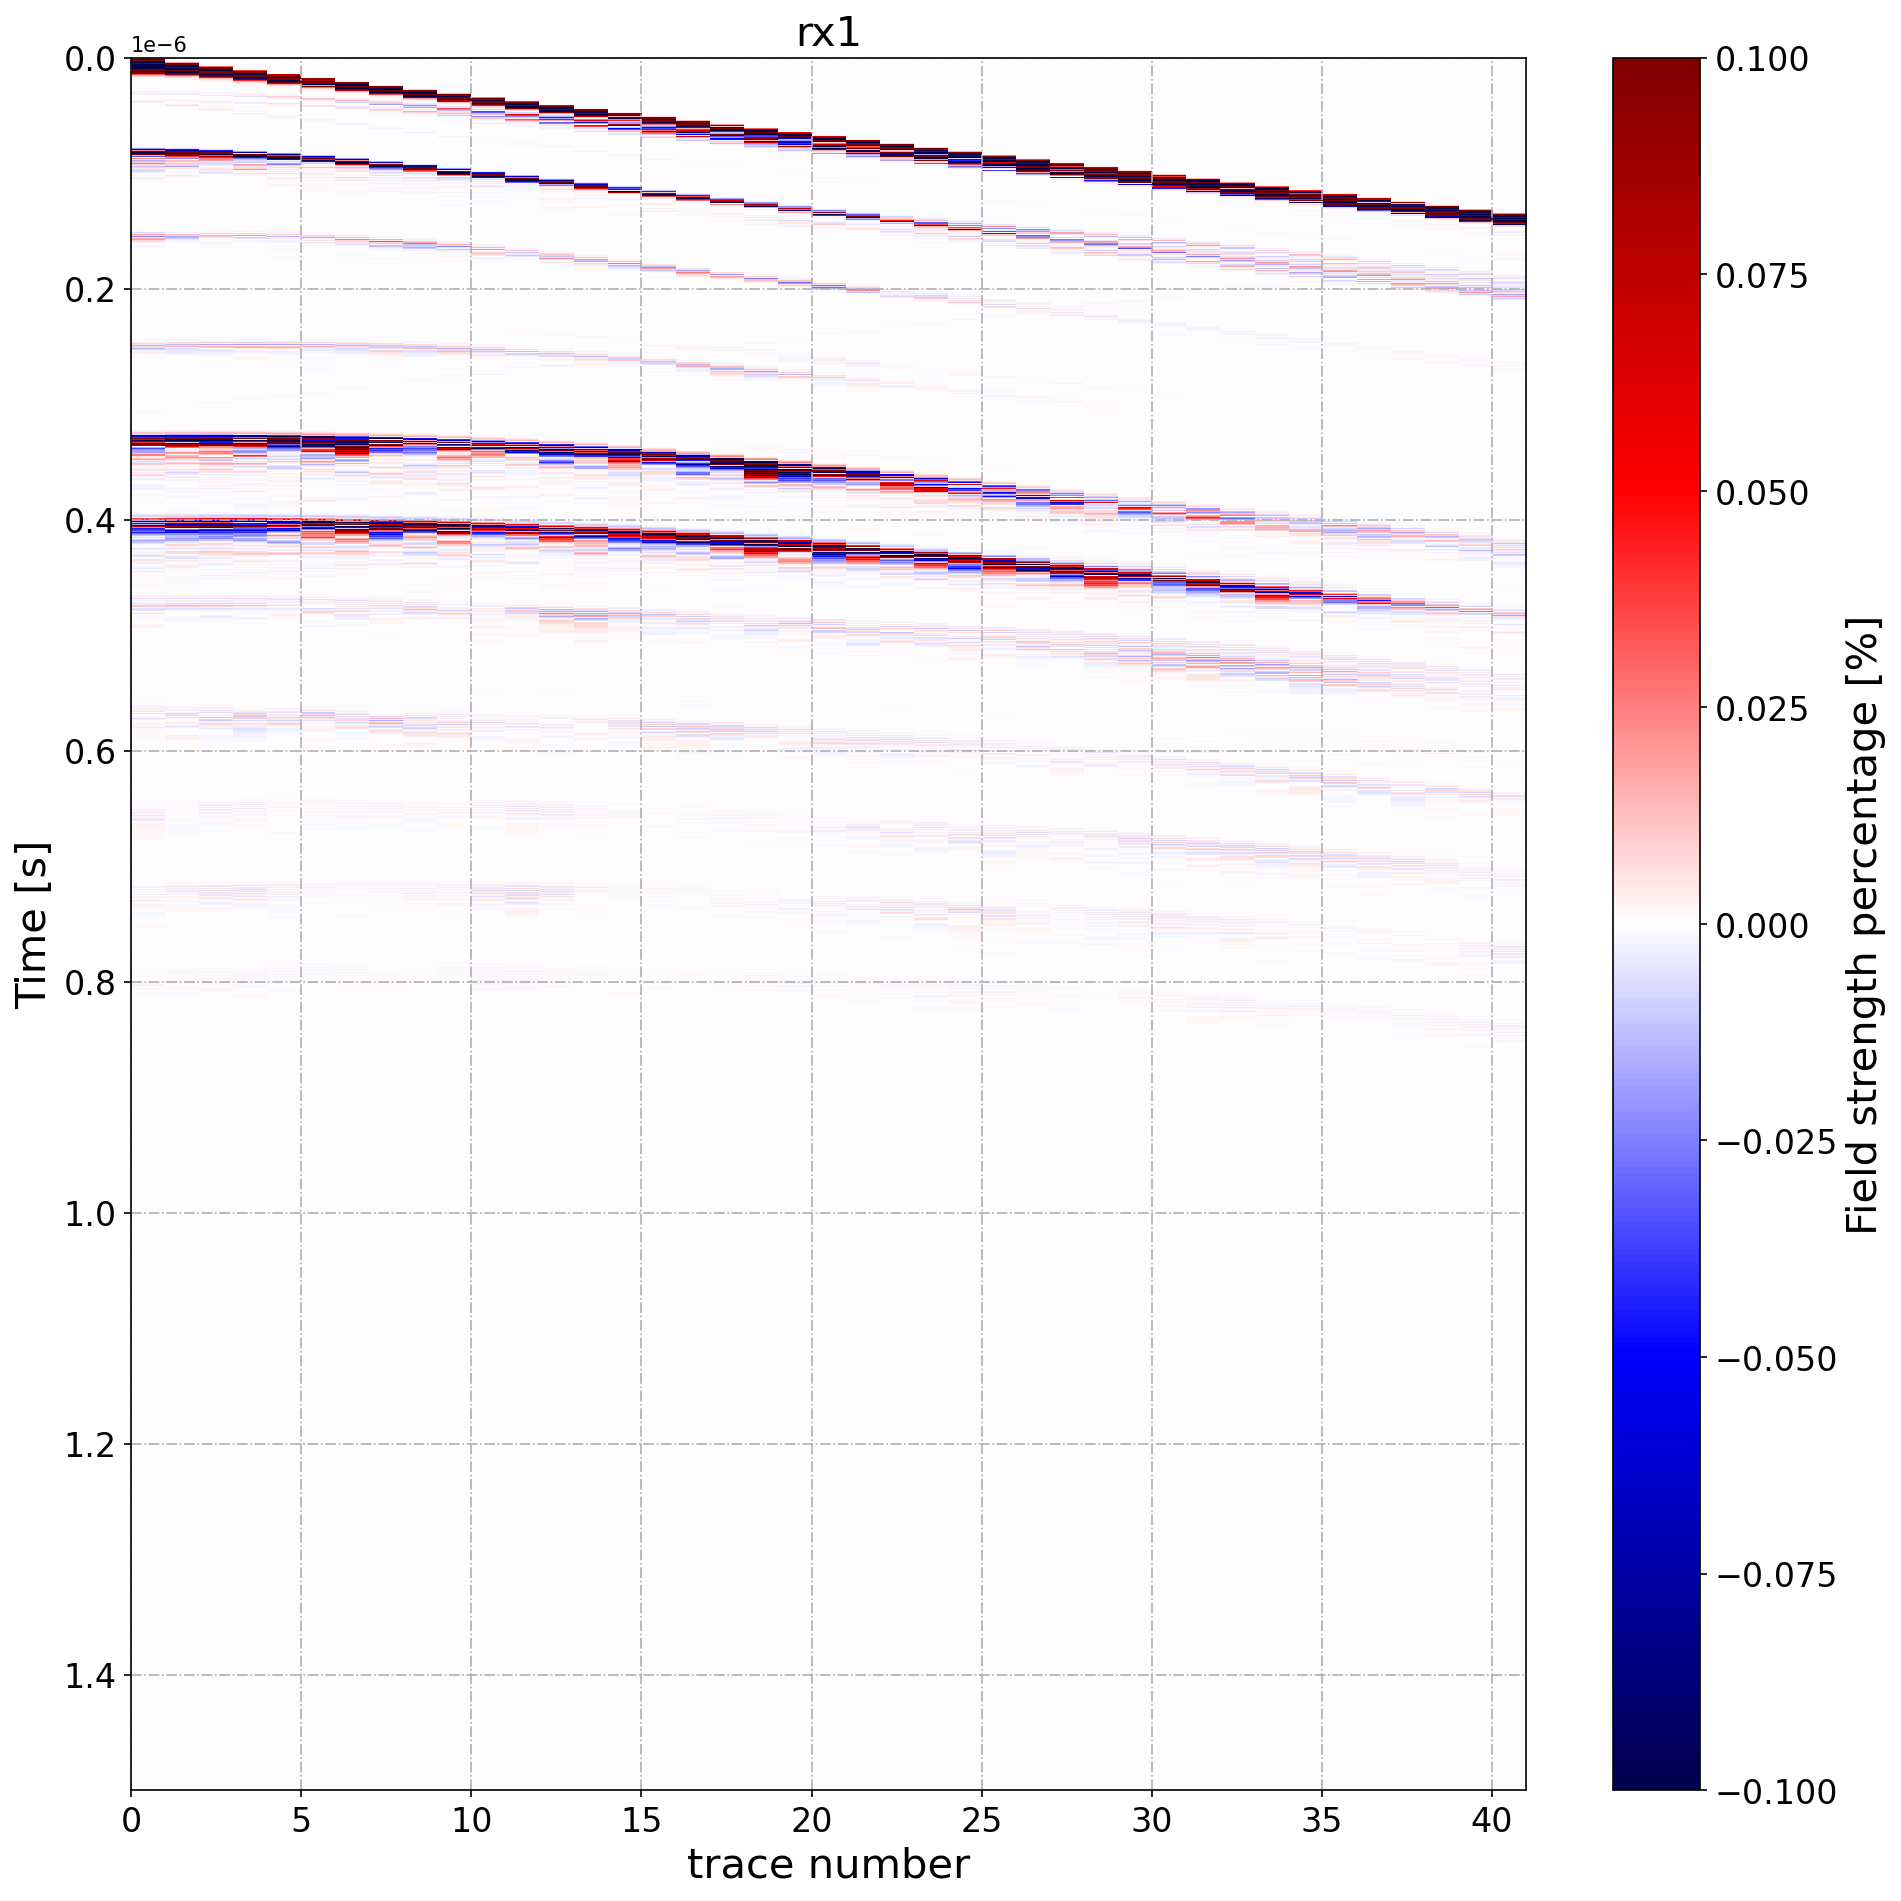
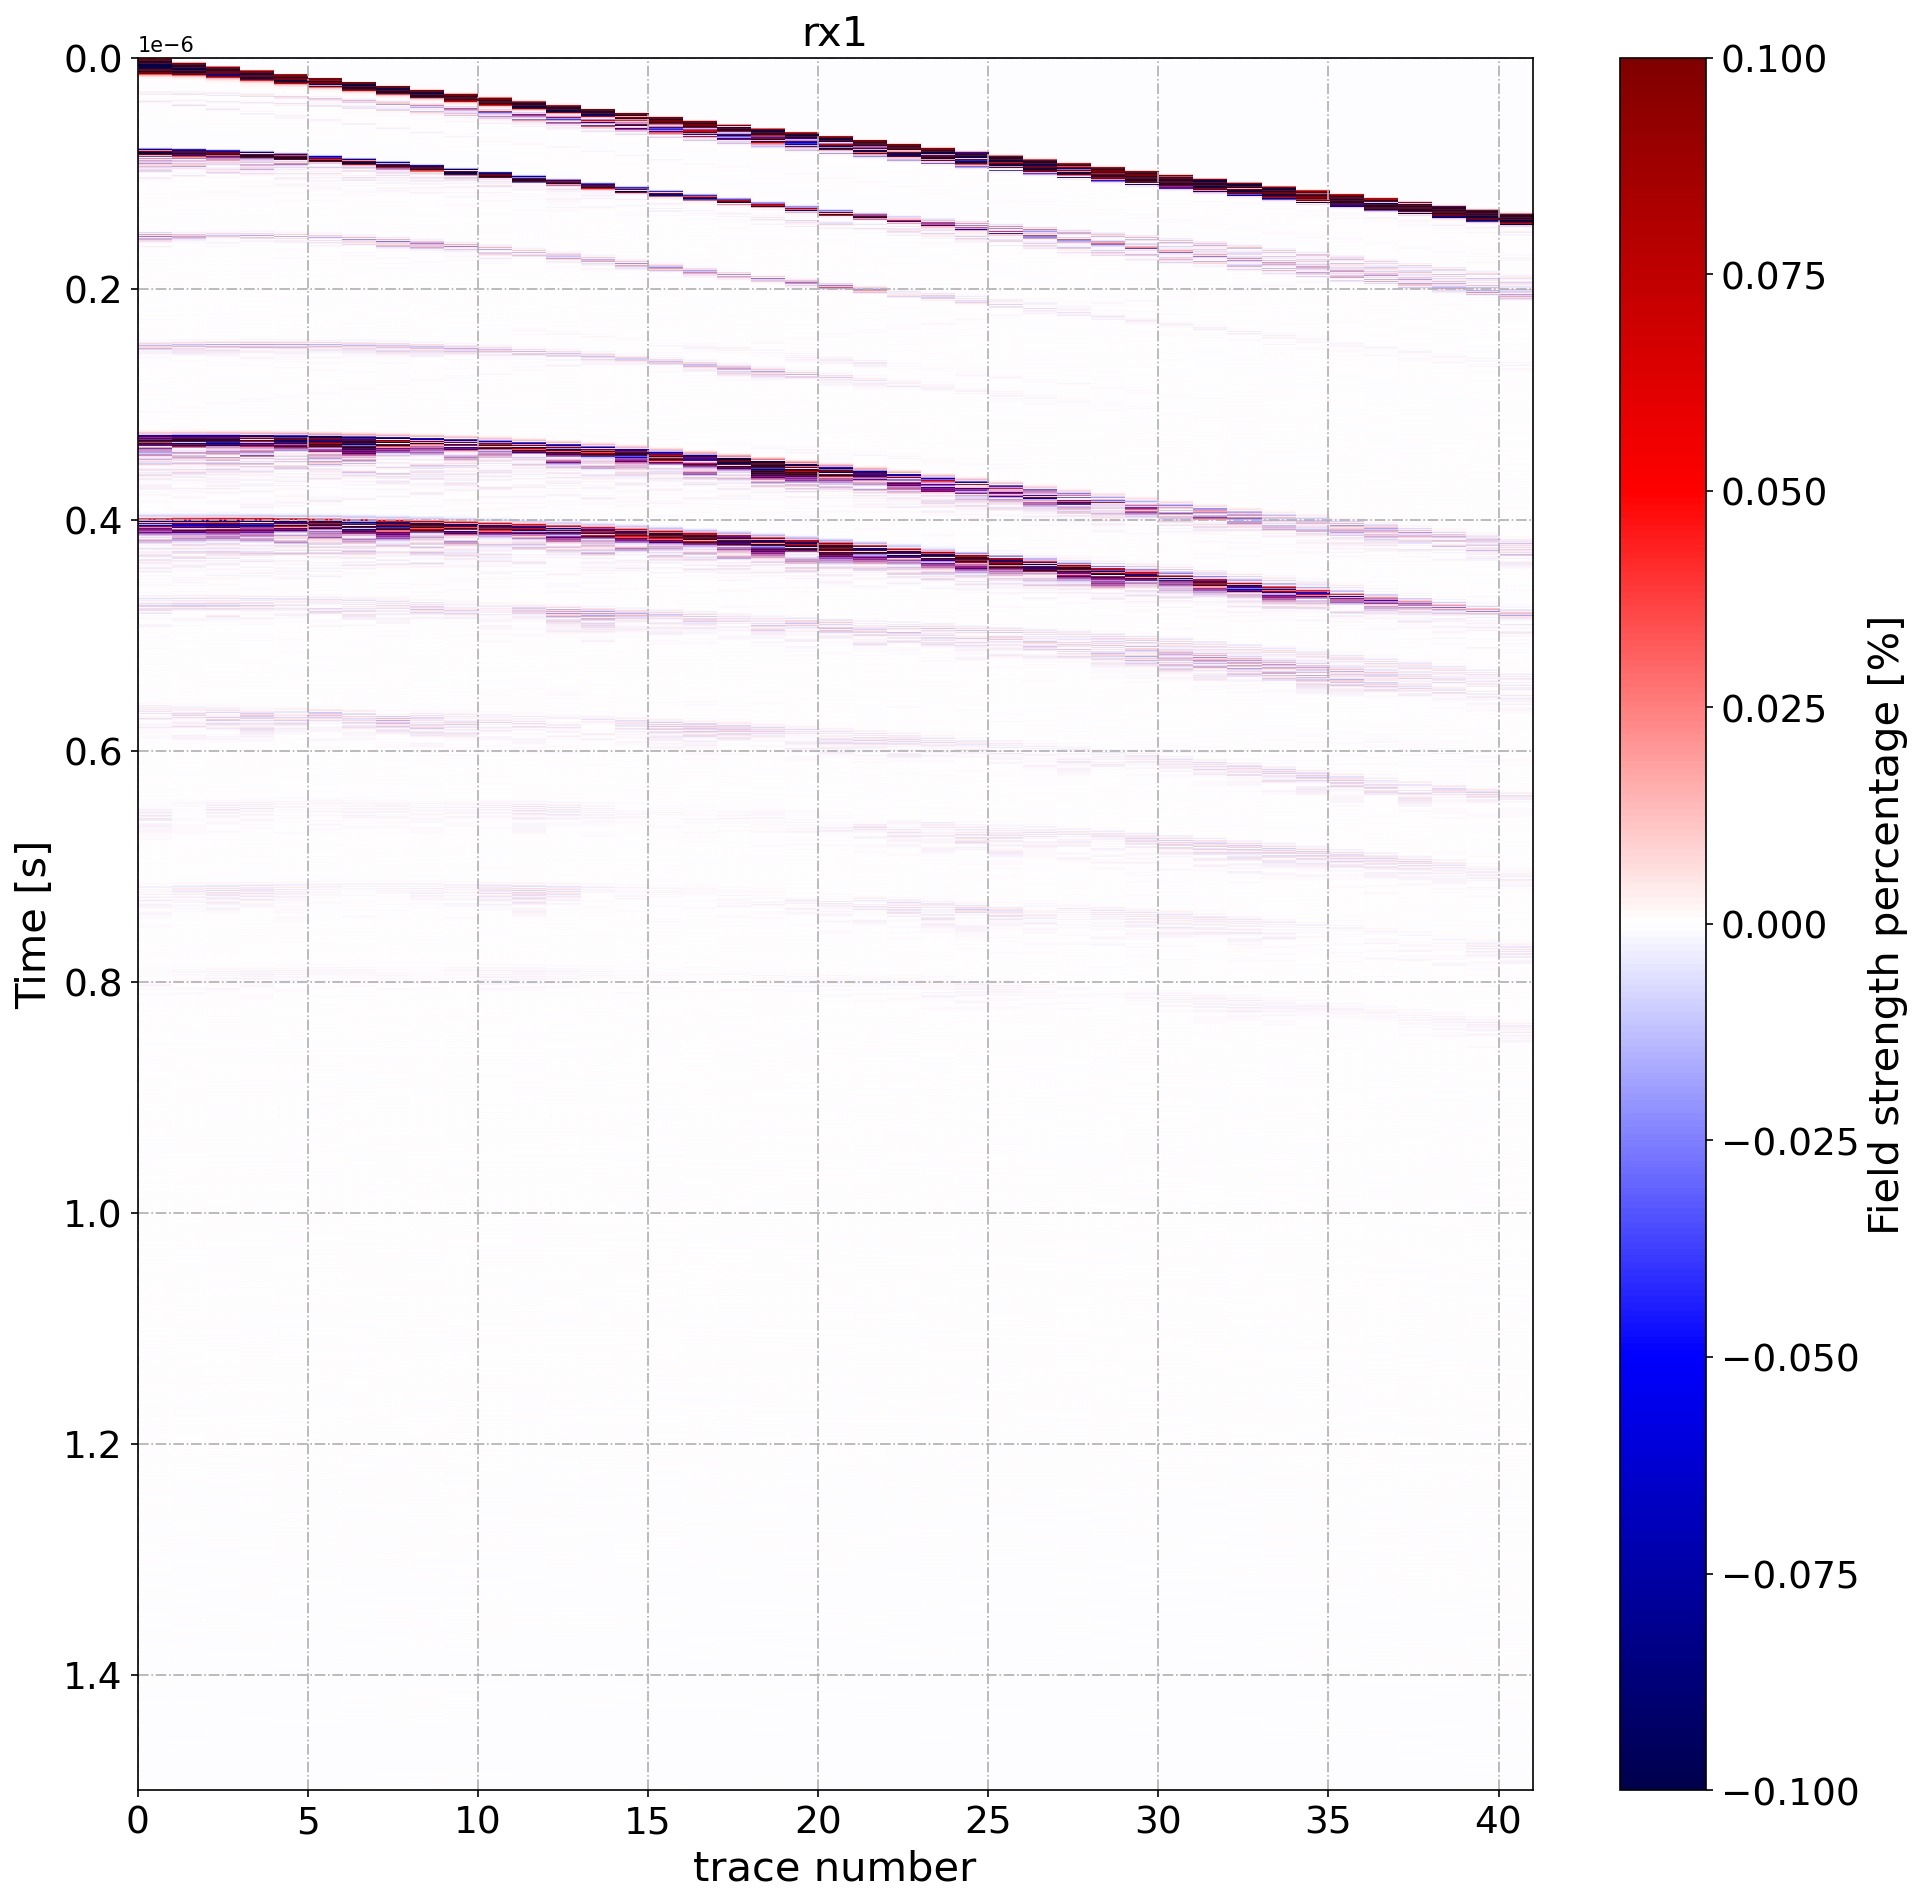
change figsize and fontsize

diff --git a/tools/estimate_Vrms.py b/tools/estimate_Vrms.py
@@ -251,7 +251,7 @@ else:
 
 #* plot
 
-fig = plt.figure(figsize=(8, 6))
+fig = plt.figure(figsize=(15, 15))
 ax = fig.add_subplot(111)
 if args.plot_type == 'select':
     bounds = np.array([0, 0.25, 0.50, 0.75, 1.0])
@@ -275,9 +275,10 @@ else:
             #norm=colors.LogNorm(vmin=1e-7, vmax=0.5)
     )
 
-ax.set_xlabel('RMS velocity [/c]')
-ax.set_ylabel('Vertical delay time [ns]')
+ax.set_xlabel('RMS velocity [/c]', fontsize=20)
+ax.set_ylabel('Vertical delay time [ns]', fontsize=20)
 ax.grid(color='gray', linestyle='--', which='both', linewidth=0.5)
+ax.tick_params(labelsize=18)
 
 #* for closeup option
 if args.closeup == True:
@@ -291,6 +292,7 @@ if args.closeup == True:
 delvider = axgrid1.make_axes_locatable(ax)
 cax = delvider.append_axes('right', size='5%', pad=0.1)
 plt.colorbar(cax=cax, label='Cross-correlation')
+cax.tick_params(labelsize=18)
 
 #* save plot
 if args.plot_type == 'mask' and args.closeup == False:

diff --git a/tools/plot_Bscan.py b/tools/plot_Bscan.py
@@ -62,7 +62,7 @@ def mpl_plot(filename, outputdata, dt, rxnumber, rxcomponent, closeup=False):
             interpolation='nearest', aspect='auto', cmap='seismic', vmin=-0.1, vmax=0.1)
     plt.xlabel('trace number', fontsize=20)
     plt.ylabel('Time [s]', fontsize=20)
-    plt.tick_params(labelsize=16)
+    plt.tick_params(labelsize=18)
 
     # =====closeupオプション=====
     if closeup:
@@ -96,7 +96,7 @@ def mpl_plot(filename, outputdata, dt, rxnumber, rxcomponent, closeup=False):
         cb.set_label('Field strength [A/m]')
     elif 'I' in rxcomponent:
         cb.set_label('Current [A]')
-    cb.ax.tick_params(labelsize=16)
+    cb.ax.tick_params(labelsize=18)
 
     # Save a PDF/PNG of the figure
     savefile = os.path.splitext(filename)[0]
